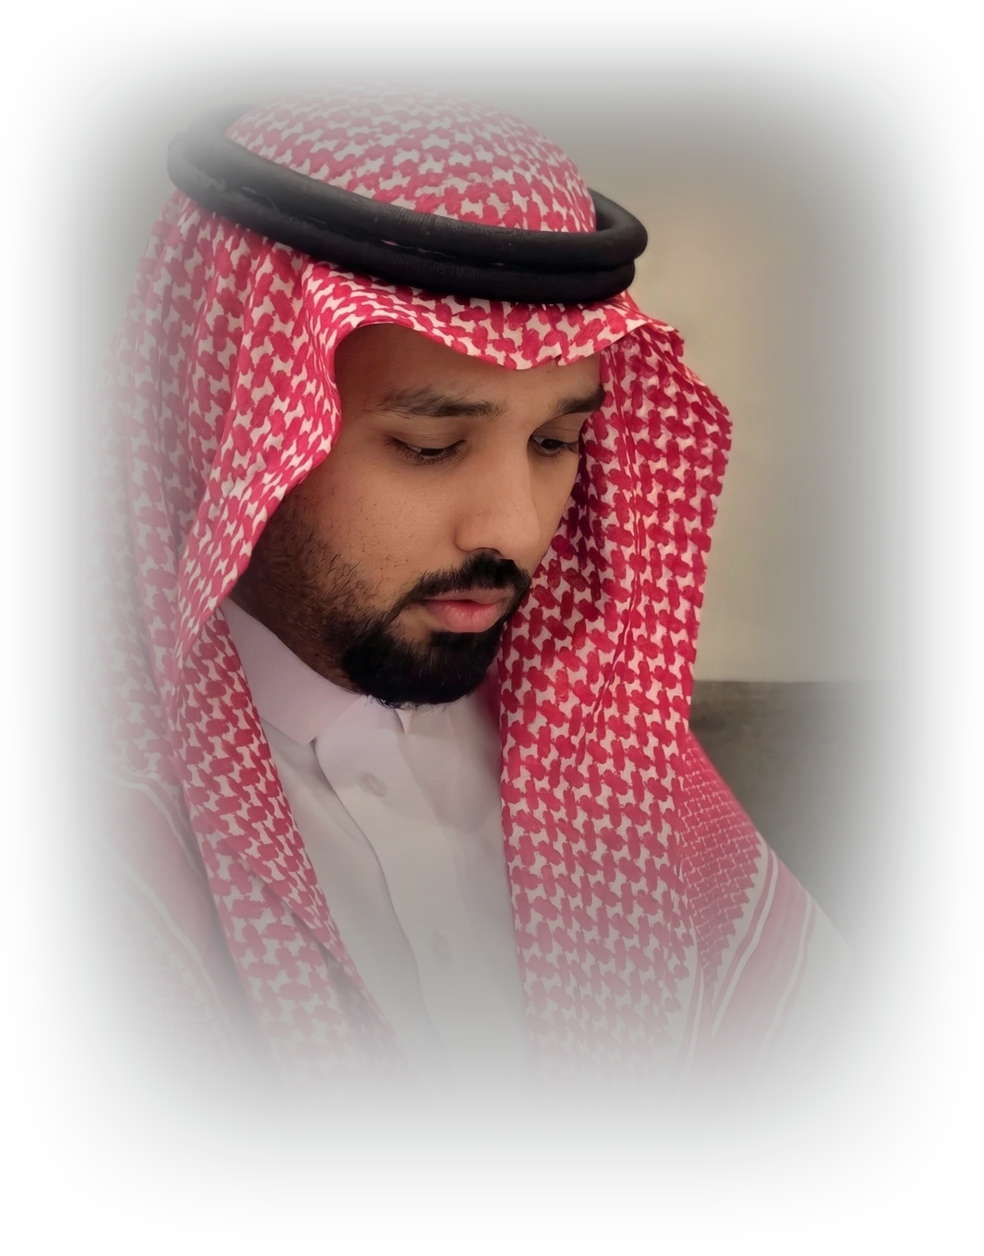
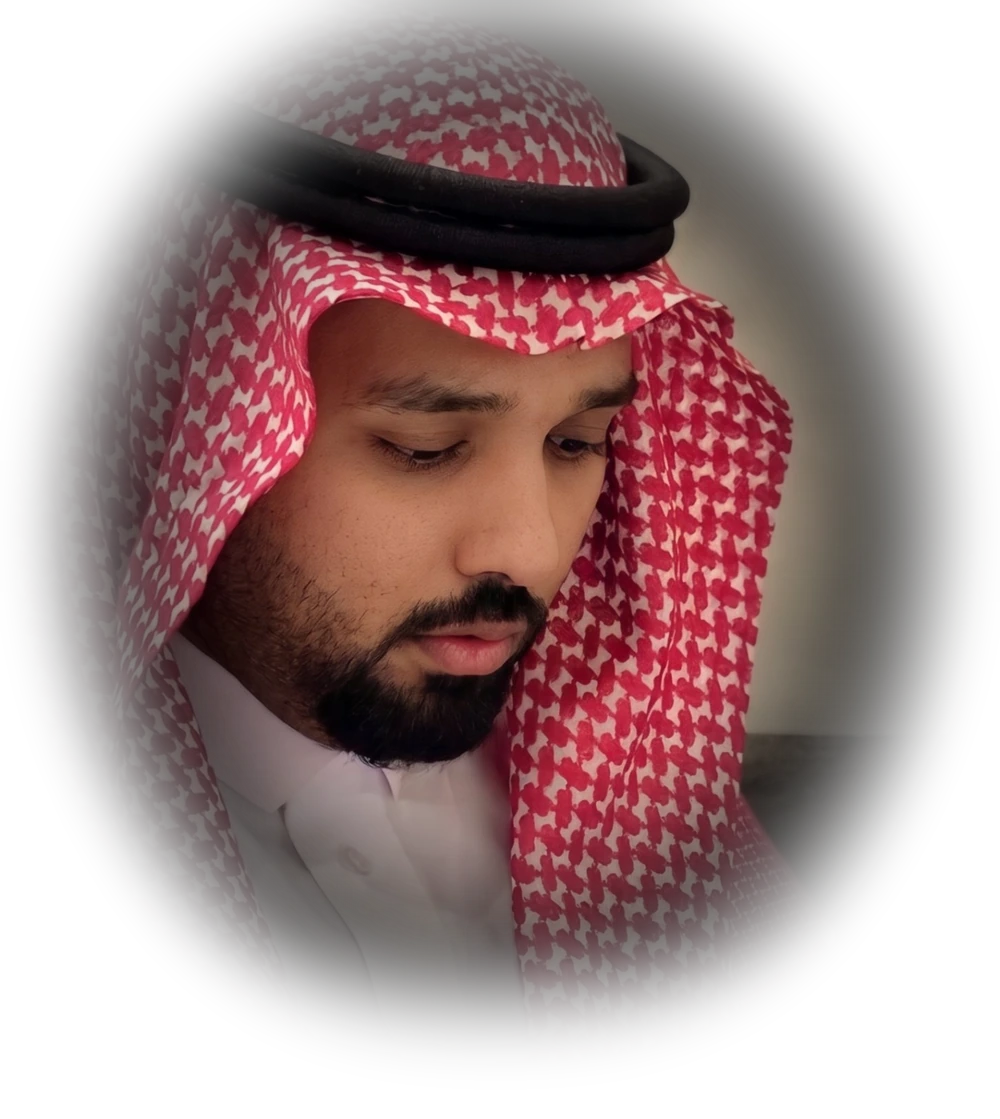
Fix portrait: circular fade, no box edge

diff --git a/index.html b/index.html
@@ -157,7 +157,7 @@ nav a.on{color:var(--accent-3);}
 /* البورتريه */
 .pf{position:relative;display:flex;justify-content:center;align-items:flex-end;min-height:400px;}
 .pf .halo{position:absolute;width:86%;aspect-ratio:1;border-radius:50%;bottom:4%;
-  background:radial-gradient(circle,rgba(0,168,98,.42),rgba(0,168,98,.08) 52%,transparent 72%);filter:blur(14px);}
+  background:radial-gradient(circle,rgba(0,168,98,.26),rgba(0,168,98,.05) 54%,transparent 74%);filter:blur(22px);}
 .pf .orbit{position:absolute;width:82%;aspect-ratio:1;border-radius:50%;bottom:6%;
   background:conic-gradient(from 0deg,transparent 0 62%,rgba(232,207,139,.75) 74%,rgba(47,208,138,.85) 84%,transparent 94%);
   -webkit-mask:radial-gradient(circle,transparent 0 49.2%,#000 49.6%);mask:radial-gradient(circle,transparent 0 49.2%,#000 49.6%);
@@ -165,7 +165,7 @@ nav a.on{color:var(--accent-3);}
 .pf .orbit2{position:absolute;width:95%;aspect-ratio:1;border-radius:50%;bottom:1%;border:1px dashed rgba(255,255,255,.1);
   animation:spin 46s linear infinite reverse;}
 @keyframes spin{to{transform:rotate(360deg)}}
-.pf img{position:relative;z-index:3;width:min(100%,430px);filter:drop-shadow(0 34px 50px rgba(0,0,0,.65)) drop-shadow(0 0 40px rgba(0,168,98,.22));}
+.pf img{position:relative;z-index:3;width:min(100%,470px);filter:drop-shadow(0 30px 46px rgba(0,0,0,.6)) drop-shadow(0 0 46px rgba(0,168,98,.18));}
 .pbadge{position:absolute;z-index:5;display:flex;align-items:center;gap:10px;padding:11px 15px;border-radius:14px;
   background:rgba(8,14,11,.72);backdrop-filter:blur(14px);-webkit-backdrop-filter:blur(14px);border:1px solid var(--line);
   box-shadow:0 18px 40px -22px #000;white-space:nowrap;}
@@ -509,7 +509,7 @@ footer::before{content:"";position:absolute;top:0;inset-inline:clamp(18px,4vw,44
 @media (max-width:1040px){
   .hero-in{grid-template-columns:1fr;gap:10px;}
   .pf{order:-1;min-height:330px;margin-bottom:6px;}
-  .pf img{width:min(78%,330px);}
+  .pf img{width:min(84%,360px);}
   .pb1{inset-inline-start:2%;} .pb2{inset-inline-end:2%;} .pb3{display:none;}
   .about,.plat,.id-body,.courses{grid-template-columns:1fr;}
   .brands,.exp{grid-template-columns:repeat(2,1fr);}
@@ -532,7 +532,7 @@ footer::before{content:"";position:absolute;top:0;inset-inline:clamp(18px,4vw,44
   .cos,.brands,.exp,.certs,.mods{grid-template-columns:1fr;}
   .hero{padding:100px 0 40px;}
   .pf{min-height:0;margin-bottom:14px;}
-  .pf img{width:min(64%,246px);}
+  .pf img{width:min(74%,290px);}
   .pbadge{padding:9px 12px;border-radius:12px;}
   .pbadge .v{font-size:1rem;} .pbadge .k{font-size:10.5px;}
   .pb1{top:8%;inset-inline-start:0;} .pb2{bottom:14%;inset-inline-end:0;}
@@ -615,7 +615,7 @@ footer::before{content:"";position:absolute;top:0;inset-inline:clamp(18px,4vw,44
         <div class="halo" aria-hidden="true"></div>
         <div class="orbit" aria-hidden="true"></div>
         <div class="orbit2" aria-hidden="true"></div>
-        <img src="portrait.webp" alt="عبدالرحيم محمد أمين" width="984" height="1256" fetchpriority="high">
+        <img src="portrait.webp" alt="عبدالرحيم محمد أمين" width="1000" height="1119" fetchpriority="high">
         <div class="pbadge pb1"><span class="v"><span class="num cnt" data-to="40">40</span><span style="color:var(--gold-2)">+</span></span><span class="k">فرعاً<br>حول المملكة</span></div>
         <div class="pbadge pb2"><span class="v"><span class="num cnt" data-to="6">6</span></span><span class="k">علامات<br>تجارية</span></div>
         <div class="pbadge pb3"><span class="v"><span class="num cnt" data-to="2">2</span></span><span class="k">شركتان<br>تحت الإدارة</span></div>
